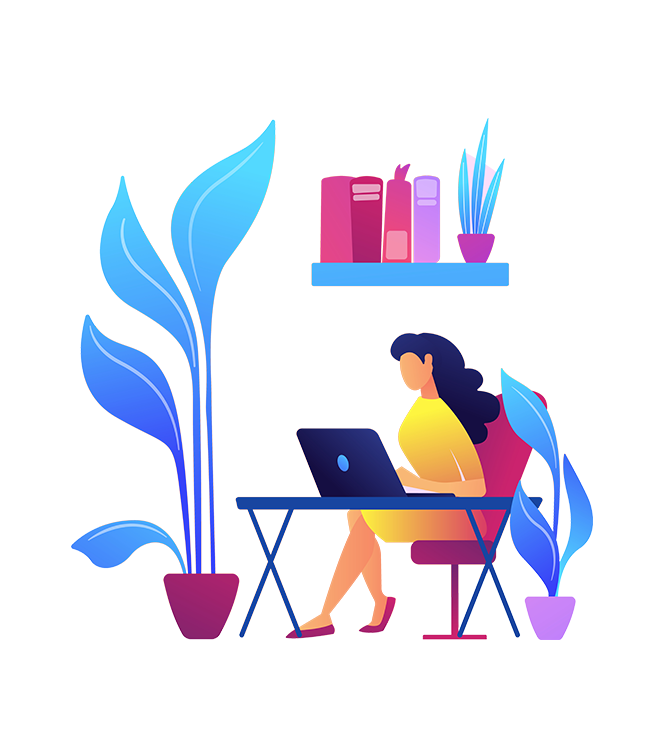
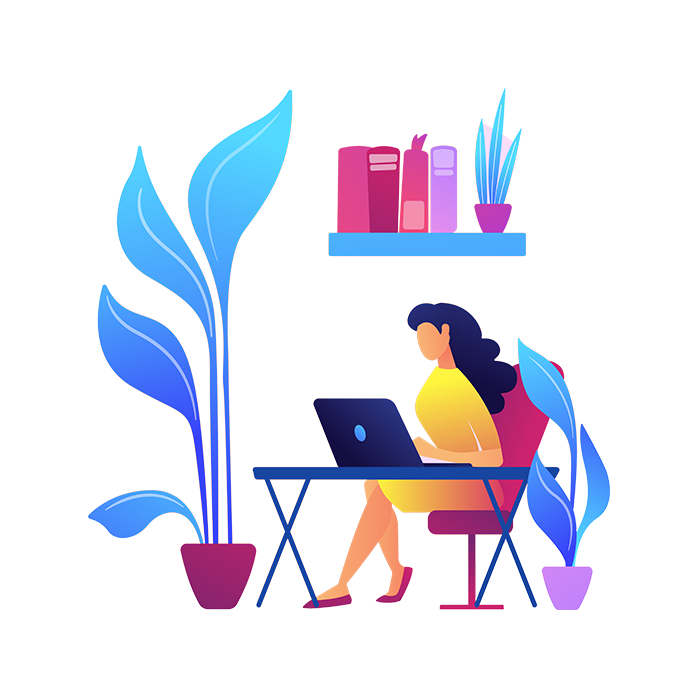
animation issue solved

diff --git a/index.html b/index.html
@@ -903,28 +903,17 @@
             </div>
             <!-- hero child count section end -->
             </div>
-            
-             <!-- hero child left section start -->
+
           <div class="hero-child-left relative">
-            <!-- animation section start -->
-            <div
-              class="max-1199px:d-none-important w-[700px] h-[700px] rounded-full border-[1.75px] border-dashed border-custom_pink animate-rotate flex justify-center items-center"
-            >
-              <div
-                class="max-1199px:d-none-important w-[550px] h-[550px] rounded-full border-[1.75px] border-dashed border-custom_purple animate-rotate flex justify-center items-center"
-              >
-                <div
-                  class="max-1199px:d-none-important w-[450px] h-[450px] rounded-full border-[1.75px] border-dashed border-custom_yellow animate-rotate"
-                ></div>
+            <div class="border-level-2 relative overflow-hidden">
+              <div class="border-level-1 relative overflow-hidden">
+                <div class="border-level-0 relative overflow-hidden flex justify-center items-center">
+                  <img class="" src="./assets/images/19197587.png" alt="Image Not Found" />
+                </div>
               </div>
             </div>
-            <!-- animation section end -->
-            <img
-              class="w-[650px] min-1200px:absolute min-1200px:top-0 min-1200px:-left-[78px]"
-              src="./assets/images/19197587.png"
-              alt="Image Not Found"
-            />
           </div>
+
           <!-- hero child left section end -->
             
           </div>

diff --git a/src/output.css b/src/output.css
@@ -693,6 +693,10 @@ video {
   margin-left: 15px;
 }
 
+.ml-\[10px\] {
+  margin-left: 10px;
+}
+
 .ml-\[20px\] {
   margin-left: 20px;
 }
@@ -719,10 +723,6 @@ video {
 
 .mt-\[20px\] {
   margin-top: 20px;
-}
-
-.ml-\[10px\] {
-  margin-left: 10px;
 }
 
 .block {
@@ -773,10 +773,6 @@ video {
   width: 150px;
 }
 
-.w-4\/5 {
-  width: 80%;
-}
-
 .w-\[10px\] {
   width: 10px;
 }
@@ -813,12 +809,12 @@ video {
   width: 80%;
 }
 
-.w-full {
-  width: 100%;
-}
-
 .w-\[92\%\] {
   width: 92%;
+}
+
+.w-full {
+  width: 100%;
 }
 
 .min-w-1\/4\% {
@@ -882,6 +878,10 @@ video {
 
 .gap-\[30px\] {
   gap: 30px;
+}
+
+.overflow-hidden {
+  overflow: hidden;
 }
 
 .overflow-y-scroll {
@@ -1311,6 +1311,40 @@ video {
 
 .ease-in-out {
   transition-timing-function: cubic-bezier(0.4, 0, 0.2, 1);
+}
+
+.border-level-0:before,
+.border-level-1:before,
+.border-level-2:before {
+  content: "";
+  display: block;
+  position: absolute;
+  width: 100%;
+  height: 100%;
+  border-radius: 50%;
+  border: 1.75px dashed;
+  animation: rotate 110s linear infinite;
+}
+
+.border-level-0:before {
+  --tw-border-opacity: 1;
+  border-color: rgb(253 202 146 / var(--tw-border-opacity));
+}
+
+.border-level-0,
+.border-level-1 {
+  margin: 30px;
+}
+
+.border-level-1:before {
+  --tw-border-opacity: 1;
+  border-color: rgb(139 116 255 / var(--tw-border-opacity));
+  animation-direction: reverse;
+}
+
+.border-level-2:before {
+  --tw-border-opacity: 1;
+  border-color: rgb(255 112 210 / var(--tw-border-opacity));
 }
 
 .after\:absolute::after {

diff --git a/src/input.css b/src/input.css
@@ -1,3 +1,39 @@
 @tailwind base;
 @tailwind components;
 @tailwind utilities;
+
+.border-level-0:before,
+.border-level-1:before,
+.border-level-2:before {
+    content: "";
+    display: block;
+    position: absolute;
+    width: 100%;
+    height: 100%;
+    border-radius: 50%;
+    border: 1.75px dashed;
+    animation: rotate 110s linear infinite;
+}
+
+.border-level-0:before {
+    --tw-border-opacity: 1;
+    border-color: rgb(253 202 146 / var(--tw-border-opacity));
+}
+
+.border-level-0,
+.border-level-1 {
+    margin: 30px;
+    
+}
+
+.border-level-1:before {
+    --tw-border-opacity: 1;
+    border-color: rgb(139 116 255 / var(--tw-border-opacity));
+    animation-direction: reverse;
+    
+}
+
+.border-level-2:before {
+    --tw-border-opacity: 1;
+    border-color: rgb(255 112 210 / var(--tw-border-opacity));
+}
